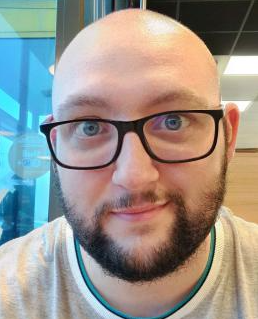
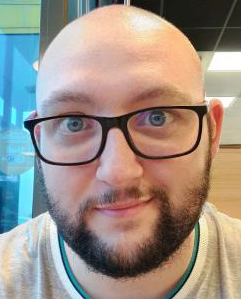
Centrage photo

diff --git a/Index.html b/Index.html
@@ -1,18 +1,23 @@
 <!DOCTYPE html>
 <html lang="en">
+
 <head>
-    <meta charset="UTF-8">
-    <meta http-equiv="X-UA-Compatible" content="IE=edge">
-    <meta name="viewport" content="width=device-width, initial-scale=1.0">
-    <link rel="stylesheet" href="css/CV.css">
+    <meta charset="UTF-8" />
+    <meta http-equiv="X-UA-Compatible" content="IE=edge" />
+    <meta name="viewport" content="width=device-width, initial-scale=1.0" />
+    <link rel="stylesheet" href="css/CV.css" />
     <title>Curriculum Vitae</title>
 </head>
+
 <body>
     <header>
         <h1>CV de Sébastien ALAPIDE</h1>
     </header>
 
-    <img src="Img\Photo de profil.PNG" alt="Photo de profil">
+    <div class="photo">
+        <img src="Img\Photo de profil.PNG" alt="Photo de profil" />
+    </div>
 
 </body>
+
 </html>
